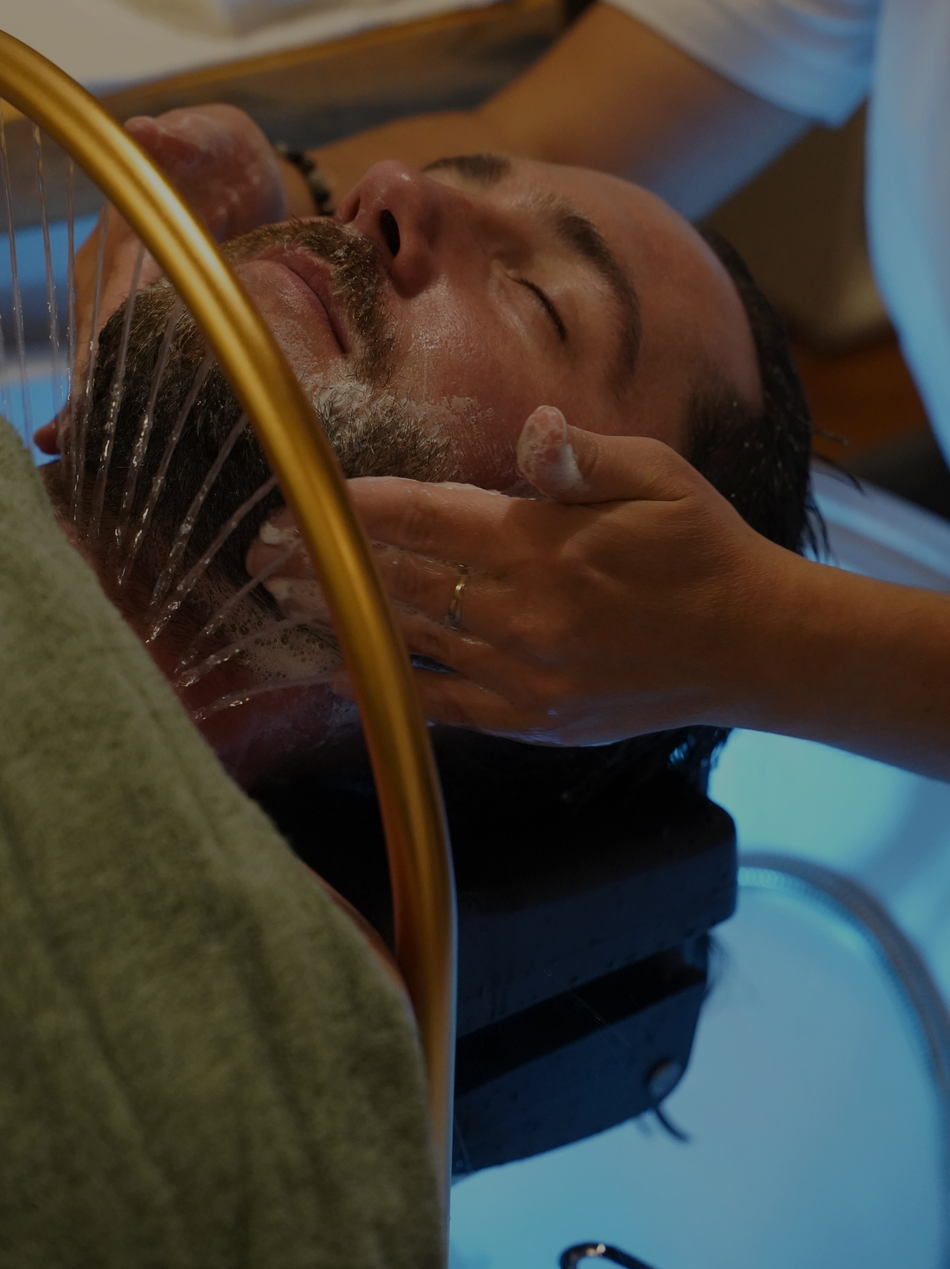
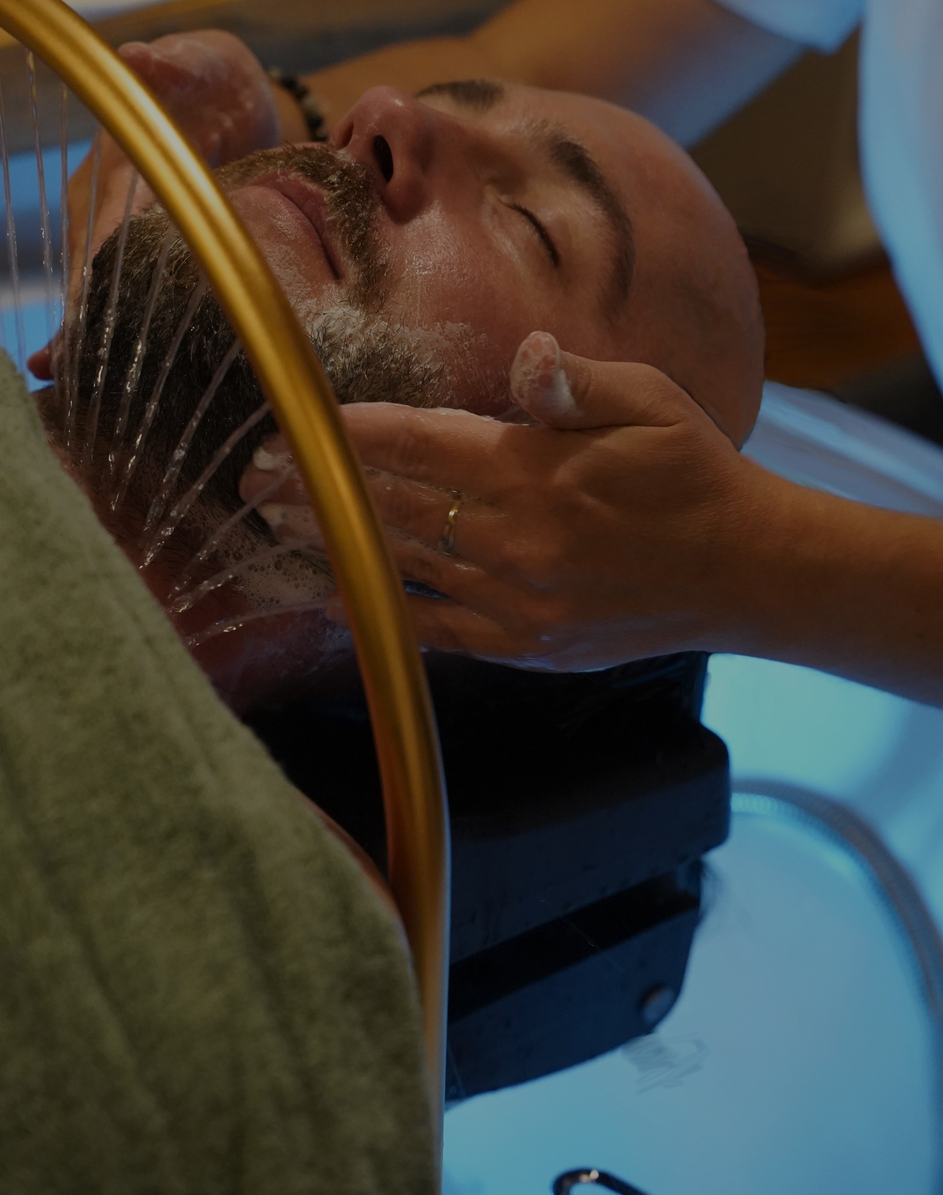
images

diff --git a/index.html b/index.html
@@ -91,7 +91,7 @@
           <div><img src="img/leaf-right.svg"></div>
         </div>
       </div>
-      <div class="row">
+      <div class="row " style="margin-top: 60px!important;"">
         <div class="col-lg-6 col-sm-12 col-md-12 container-content-salon">
           <div id="carouselExampleFade" class="carousel slide carousel-fade">
             <div class="carousel-indicators">
@@ -284,7 +284,7 @@
       <div class="row">
         <div class="col-lg-6 col-sm-12 col-md-12">
           <div class="picture-container-aboutme">
-            <img src="img/nawel-2.svg" class="picture-aboutme" alt="logo-nawel">
+            <img src="img/nawel-21.svg" class="picture-aboutme" alt="logo-nawel">
           </div>
         </div>
         <div class="col-lg-6 col-sm-12 col-md-12">

diff --git a/css/style.css b/css/style.css
@@ -304,7 +304,7 @@ a{
 }
 
 .img-soin-2 {
-  background-image: url("../img/soin-2.jpg");
+  background-image: url("../img/soin-21.jpg");
   background-size: cover;
 }
 
